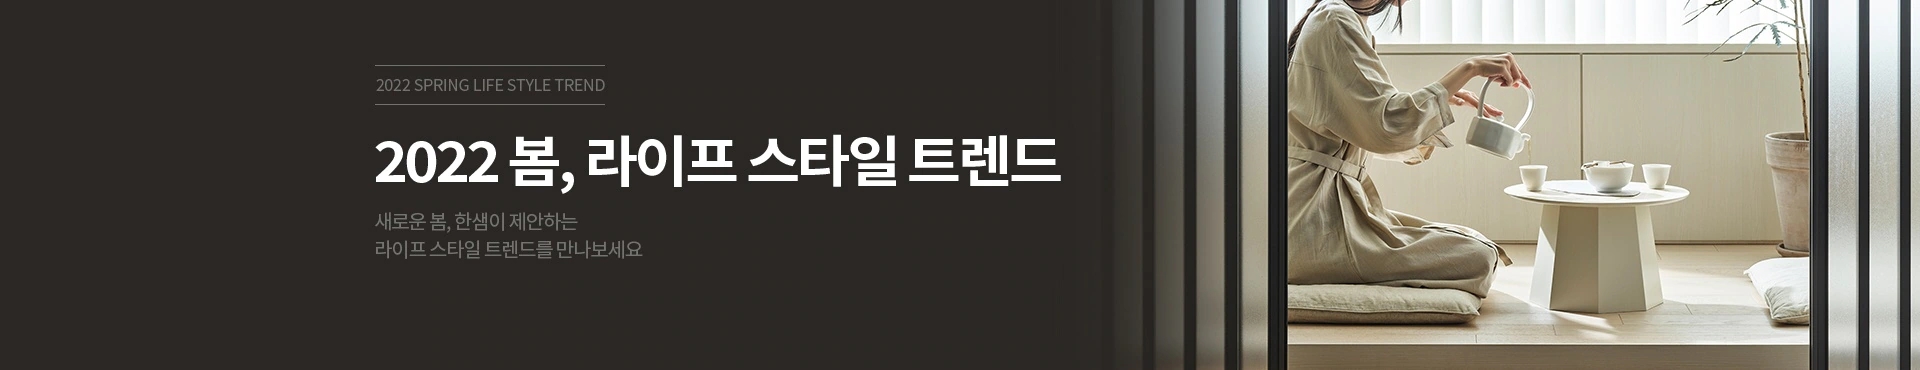
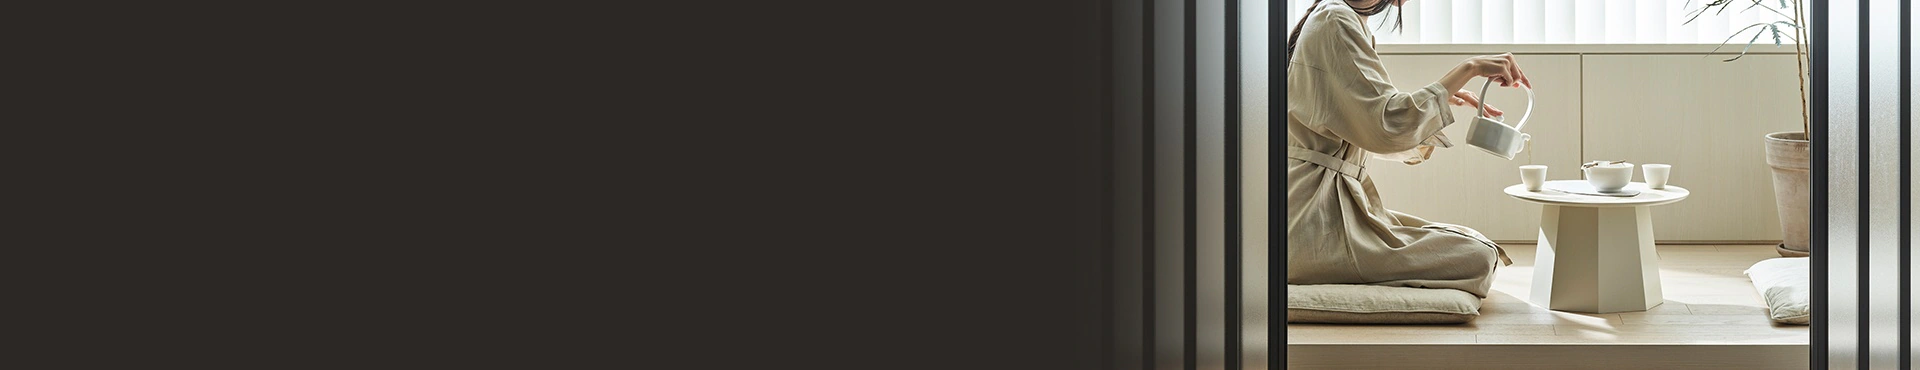
20220722

diff --git a/css/main.css b/css/main.css
@@ -48,42 +48,49 @@ p {
     text-align: center;
 }
 
+.gnb h1 {
+    display: none;
+}
+
+.gnb a {
+    display: block;
+}
+
 .gnb>ul {
     display: flex;
     gap: 50px;
-}
-
-.gnb>ul>li>a {
-    display: block;
 }
 
 .gnb>ul>li {
     position: relative;
 }
 
-.gnb>ul ul {
-    display: none;
+.gnb>ul>li ul {
     position: absolute;
-    inset: 100px auto auto 50%;
-    z-index: 999;
+    top: 100px;
+    left: 50%;
     width: 150px;
-    line-height: 35px;
-    background: #fff;
-    transform: translateX(-50%);
     text-align: center;
+    transform: translateX(-50%);
+    background: #fff;
+    color: #000;
+    line-height: 40px;
+    opacity: 1;
+    visibility: hidden;
+    z-index: 999;
 }
 
 .gnb>ul>li:hover ul {
-    display: block;
+    opacity: 1;
+    visibility: visible;
 }
 
-.gnb>ul>li ul li {
+.gnb>ul>li>ul>li {
     border-bottom: 1px solid #ddd;
 }
 
-.gnb>ul>li ul li:nth-last-child(1) {
+.gnb>ul>li>ul>li:nth-last-child(1) {
     border-bottom: none;
-
 }
 
 .gnb>ul>li ul li:hover {
@@ -91,13 +98,73 @@ p {
     color: #fff;
 }
 
-#main_menu i {
+.mbtn {
     display: none;
+}
+
+.search {
+    padding: 0 0 0 50px;
+}
+
+.search input {
+    outline: none;
+    border: none;
+    border-bottom: 1px solid #000;
+    padding: 5px;
+}
+
+.search button {
+    outline: none;
+    border: none;
+    background: #fff;
+    font-size: 20px;
+    cursor: pointer;
 }
 
 #main_visual {
     position: relative;
 }
+
+#main_visual .main_slider figure {
+    position: relative;
+}
+
+
+#main_visual .main_slider .itm01 {
+    height: 50vh;
+    background: url('../img/main_visual01.jpg') no-repeat center center/cover;
+}
+
+#main_visual .main_slider .itm02 {
+    height: 50vh;
+    background: url('../img/main_visual02.jpg') no-repeat center center/cover;
+}
+
+#main_visual .main_slider .itm03 {
+    height: 50vh;
+    background: url('../img/main_visual03.jpg') no-repeat center center/cover;
+}
+
+#main_visual .main_slider figure .inner {
+    position: absolute;
+    top: 30%;
+    color: #fff;
+}
+
+#main_visual .main_slider figure .inner h2 {
+    font-size: 35px;
+    font-weight: 700;
+    line-height: 40px;
+    margin: 0 0 50px 0;
+}
+
+#main_visual .main_slider figure .inner p {
+    font-size: 15px;
+    font-weight: 300;
+    line-height: 20px;
+}
+
+
 
 #main_visual .main_slider .slick-dots {
     position: absolute;
@@ -375,6 +442,10 @@ p {
         margin: 0 40px;
     }
 
+    #main_visual .main_slider .container {
+        margin: 0 40px;
+    }
+
     .gnb {
         position: fixed;
         top: 0;
@@ -382,9 +453,13 @@ p {
         width: calc(100% - 200px);
         height: 100vh;
         z-index: 999;
-        background: #ff0;
+        background: #99f;
         line-height: 40px;
         transition: 0.5s;
+    }
+
+    .gnb h1 {
+        display: block;
     }
 
     .gnb.on {
@@ -395,11 +470,35 @@ p {
         display: block;
     }
 
-    .gnb ul {
+    .gnb>ul {
         display: flex;
         flex-direction: column;
         gap: 0;
 
+    }
+
+    .gnb>ul>li {
+        position: relative;
+        border-bottom: 1px solid #ddd;
+        opacity: 1;
+        visibility: visible;
+    }
+
+    .gnb>ul>li>ul {
+        display: none;
+        position: static;
+        width: auto;
+        transform: translate(0);
+        opacity: 1;
+        visibility: visible;
+    }
+
+    .mbtn {
+        display: block;
+    }
+
+    .search {
+        display: none;
     }
 
     #main_menu .mbtn i {
@@ -411,13 +510,68 @@ p {
         font-size: 35px;
         background: #ddd;
         border-radius: 10px;
+        cursor: pointer;
     }
 
-    #main_visual .main_slider .slick-dots {
+    #main_visual .main_slider .itm01 {
+        height: 30vh;
+    }
+
+    #main_visual .main_slider .itm02 {
+        height: 30vh;
+    }
+
+    #main_visual .main_slider .itm03 {
+        height: 30vh;
+    }
+
+    #main_visual .main_slider .slick-dots li button {
+        width: 10px;
+        height: 10px;
+        margin: 0 10px;
+        border-radius: 50%;
+    }
+
+    #main_visual .angle {
+        display: none;
+    }
+
+    #style_package .container {
+        width: auto;
+        margin: 0 40px;
+    }
+
+    #style_package .container .livingroom_inner {
         display: block;
     }
 
-    #main_visual .main_slider .slick-dots li {
-        width: 50px;
+    #style_package .container .bedroom_inner {
+        display: block;
     }
+
+    #style_package .container .package_inner {
+        display: block;
+    }
+
+    #style_package .package_arrow {
+        display: none;
+    }
+
+
+
+    #tab_content {
+        width: auto;
+        margin: 0 40px;
+    }
+
+    #footer .container {
+        display: flex;
+    }
+
+    #footer .container ul {
+        display: block;
+        font-size: 11px;
+        line-height: 20px;
+    }
+
 }

diff --git a/index.html b/index.html
@@ -29,6 +29,9 @@
                         <img src="./img/logo_hs.png" alt="">
                     </h1>
                     <nav class="gnb">
+                        <h1>
+                            <img src="./img/logo_hs.png" alt="">
+                        </h1>
                         <ul>
                             <li>
                                 <a href="">전체상품</a>
@@ -67,17 +70,61 @@
                     <div class="mbtn">
                         <i class="xi-bars"></i>
                     </div>
+                    <div class="search">
+                        <form action="javascript:searchAction()">
+                            <input type="text" , placeholder="검색">
+                            <button>
+                                <i class="xi-search"></i>
+                            </button>
+                        </form>
+                        <script>
+                            function searchAction() {
+                                var searchValue = $('.search input').val();
+                                if (searchValue.length < 3) {
+                                    alert('3글자 이상 검색이 가능합니다.');
+                                } else {
+                                    alert(searchValue);
+                                }
+                            }
+                        </script>
+                    </div>
                 </div>
             </section>
         </header>
         <main id="main">
             <section id="main_visual">
                 <div class="main_slider">
-                    <img src="./img/main_visual01.jpg" alt="">
-                    <img src="./img/main_visual02.jpg" alt="">
-                    <img src="./img/main_visual03.jpg" alt="">
-                    <img src="./img/main_visual04.jpg" alt="">
-                    <img src="./img/main_visual05.jpg" alt="">
+                    <figure class="itm01">
+                        <div class="container">
+                            <div class="inner">
+                                <h2>라이프 스타일 트렌드</h2>
+                                <p>새로운 봄, 한샘이 제안하는
+                                    <br />라이프 스타일 트렌드를 만나보세요
+                                </p>
+                            </div>
+                        </div>
+                    </figure>
+                    <figure class="itm02">
+                        <div class="container">
+                            <div class="inner">
+                                <h2>NC대전 유성점 그랜드오픈
+                                </h2>
+                                <p>대전지역 최대규모 리빙파크
+                                    <br />여러가지 신상 가구 스타일을 체험가능한 체험관 OPEN
+                                </p>
+                            </div>
+                        </div>
+                    </figure>
+                    <figure class="itm03">
+                        <div class="container">
+                            <div class="inner">
+                                <h2>한샘 시즌오프</h2>
+                                <p>100여개 품목 UP TO 60%할인
+                                    <br />시즌오프 소파 UP TO 80만원 할인
+                                </p>
+                            </div>
+                        </div>
+                    </figure>
                 </div>
                 <div class="angle">
                     <i class="xi-angle-left"></i>

diff --git a/js/main.js b/js/main.js
@@ -2,6 +2,19 @@ $(function () {
 
     $('.mbtn').on('click', function () {
         $('.gnb').toggleClass('on')
+    });
+
+    $('.gnb>ul>li>a').on('click', function (e) {
+        if ($('.gnb').hasClass('on')) {
+            e.preventDefault();
+            $('.gnb>ul>li>ul').stop().slideUp();
+            $(this).next().stop().slideToggle();
+        }
+    });
+
+    $(window).on('resize', function () {
+        $('.gnb').removeClass('on')
+        $('.gnb>ul>li>ul').removeAttr('style')
     })
     $('.main_slider').slick({
         arrows: false,
